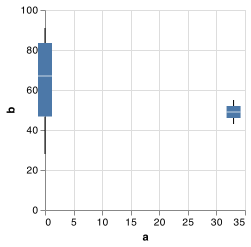
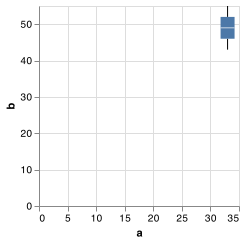
Take markDef.invalid into boxplot's markdef.

Changed region(s): [[0.0857, 0.0, 0.9714, 0.9218], [0.0286, 0.4033, 0.0857, 0.4609], [0.5429, 0.9506, 0.6, 0.9794]]

diff --git a/src/compositemark/boxplot.ts b/src/compositemark/boxplot.ts
@@ -4,7 +4,7 @@ import {getMarkPropOrConfig} from '../compile/common';
 import {Config} from '../config';
 import {Encoding, extractTransformsFromEncoding, normalizeEncoding} from '../encoding';
 import * as log from '../log';
-import {isMarkDef, MarkDef} from '../mark';
+import {isMarkDef, MarkDef, MarkInvalid} from '../mark';
 import {NormalizerParams} from '../normalize';
 import {GenericUnitSpec, NormalizedLayerSpec, NormalizedUnitSpec} from '../spec';
 import {AggregatedFieldDef, CalculateTransform, JoinAggregateTransform, Transform} from '../transform';
@@ -46,7 +46,8 @@ export interface BoxPlotConfig extends BoxPlotPartsMixins {
 }
 
 export type BoxPlotDef = GenericCompositeMarkDef<BoxPlot> &
-  BoxPlotConfig & {
+  BoxPlotConfig &
+  MarkInvalid & {
     /**
      * Type of the mark. For box plots, this should always be `"boxplot"`.
      * [boxplot](https://vega.github.io/vega-lite/docs/boxplot.html)
@@ -102,6 +103,8 @@ export function normalizeBoxPlot(
     config
   );
 
+  const invalid = markDef.invalid || null; //|| null to respect the existed default behavior
+
   const boxPlotType = getBoxPlotType(extent);
   const {
     bins,
@@ -147,7 +150,7 @@ export function normalizeBoxPlot(
 
   // ## Whisker Layers
 
-  const endTick: MarkDef = {type: 'tick', color: 'black', opacity: 1, orient: ticksOrient, invalid: null, aria: false};
+  const endTick: MarkDef = {type: 'tick', color: 'black', opacity: 1, orient: ticksOrient, invalid, aria: false};
   const whiskerTooltipEncoding: Encoding<string> =
     boxPlotType === 'min-max'
       ? fiveSummaryTooltipEncoding // for min-max, show five-summary tooltip for whisker
@@ -164,14 +167,14 @@ export function normalizeBoxPlot(
   const whiskerLayers = [
     ...makeBoxPlotExtent({
       partName: 'rule',
-      mark: {type: 'rule', invalid: null, aria: false},
+      mark: {type: 'rule', invalid, aria: false},
       positionPrefix: 'lower_whisker',
       endPositionPrefix: 'lower_box',
       extraEncoding: whiskerTooltipEncoding
     }),
     ...makeBoxPlotExtent({
       partName: 'rule',
-      mark: {type: 'rule', invalid: null, aria: false},
+      mark: {type: 'rule', invalid, aria: false},
       positionPrefix: 'upper_box',
       endPositionPrefix: 'upper_whisker',
       extraEncoding: whiskerTooltipEncoding
@@ -201,7 +204,7 @@ export function normalizeBoxPlot(
         type: 'bar',
         ...(sizeValue ? {size: sizeValue} : {}),
         orient: boxOrient,
-        invalid: null,
+        invalid,
         ariaRoleDescription: 'box'
       },
       positionPrefix: 'lower_box',
@@ -212,7 +215,7 @@ export function normalizeBoxPlot(
       partName: 'median',
       mark: {
         type: 'tick',
-        invalid: null,
+        invalid,
         ...(isObject(config.boxplot.median) && config.boxplot.median.color ? {color: config.boxplot.median.color} : {}),
         ...(sizeValue ? {size: sizeValue} : {}),
         orient: ticksOrient,

diff --git a/src/mark.ts b/src/mark.ts
@@ -75,7 +75,16 @@ export interface TooltipContent {
 /** @hidden */
 export type Hide = 'hide';
 
-export interface VLOnlyMarkConfig<ES extends ExprRef | SignalRef> extends ColorMixins<ES> {
+export interface MarkInvalid {
+  /**
+   * Defines how Vega-Lite should handle marks for invalid values (`null` and `NaN`).
+   * - If set to `"filter"` (default), all data items with null values will be skipped (for line, trail, and area marks) or filtered (for other marks).
+   * - If `null`, all data items are included. In this case, invalid values will be interpreted as zeroes.
+   */
+  invalid?: 'filter' | Hide | null;
+}
+
+export interface VLOnlyMarkConfig<ES extends ExprRef | SignalRef> extends ColorMixins<ES>, MarkInvalid {
   /**
    * Whether the mark's color should be used as fill color instead of stroke color.
    *
@@ -85,13 +94,6 @@ export interface VLOnlyMarkConfig<ES extends ExprRef | SignalRef> extends ColorM
    *
    */
   filled?: boolean;
-
-  /**
-   * Defines how Vega-Lite should handle marks for invalid values (`null` and `NaN`).
-   * - If set to `"filter"` (default), all data items with null values will be skipped (for line, trail, and area marks) or filtered (for other marks).
-   * - If `null`, all data items are included. In this case, invalid values will be interpreted as zeroes.
-   */
-  invalid?: 'filter' | Hide | null;
 
   /**
    * For line and trail marks, this `order` property can be set to `null` or `false` to make the lines use the original order in the data sources.
